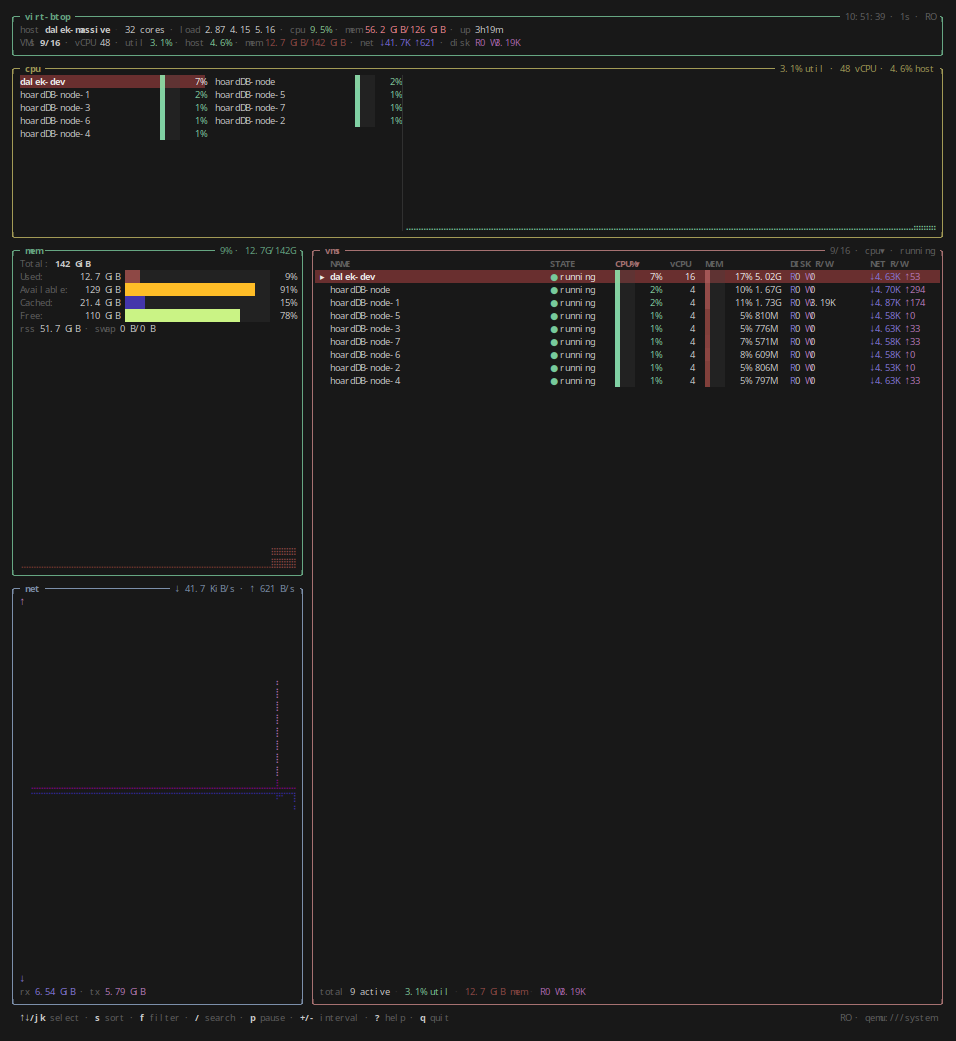
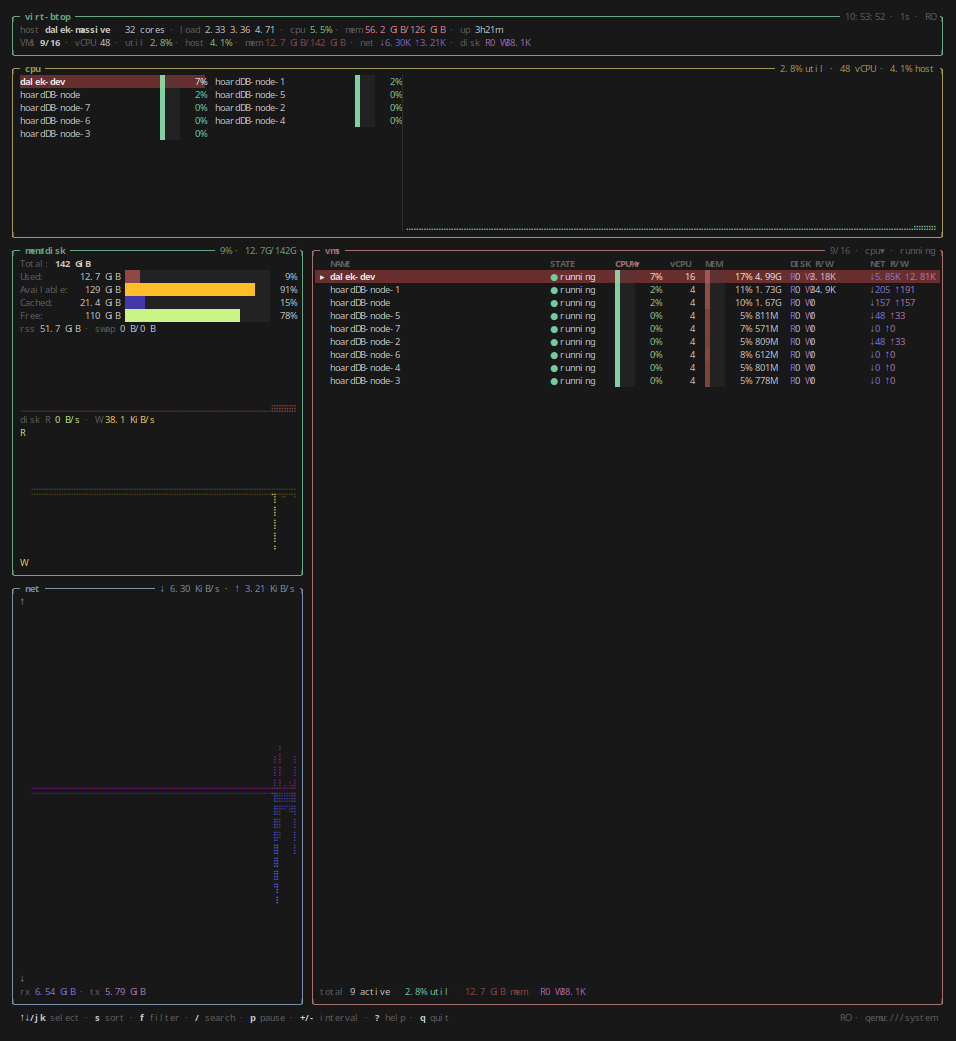
mem/disk box: add mirrored disk I/O graph

diff --git a/internal/tui/render.go b/internal/tui/render.go
@@ -296,7 +296,7 @@ func (m *Model) renderMem(s *Screen, l Layout) {
 	case c.ActiveVMs > 0:
 		sub = "no guest stats"
 	}
-	s.Box(0, l.MemY, l.LeftW, l.MemH, "mem", sub, m.pal.BorderMem, m.pal.BorderMem, m.pal.BorderMem)
+	s.Box(0, l.MemY, l.LeftW, l.MemH, "mem/disk", sub, m.pal.BorderMem, m.pal.BorderMem, m.pal.BorderMem)
 
 	x, y, w, h := 2, l.MemY+1, l.LeftW-4, l.MemH-2
 	if w <= 0 || h <= 0 {
@@ -347,12 +347,53 @@ func (m *Model) renderMem(s *Screen, l Layout) {
 		row++
 	}
 
-	graphH := h - row
-	if graphH > 0 {
+	rem := h - row
+	memGraphH := rem
+	diskH := 0
+	if rem >= 6 {
+		memGraphH = rem / 3
+		if memGraphH < 2 {
+			memGraphH = 2
+		}
+		diskH = rem - memGraphH
+	}
+	if memGraphH > 0 {
 		vals := metrics.Window(m.hist.Mem, w*2)
-		DrawBraille(s, x, y+row, w, graphH, vals, 100,
+		DrawBraille(s, x, y+row, w, memGraphH, vals, 100,
 			func(f float64) termenv.Color { return m.pal.Mem.At(f) })
 	}
+	if diskH >= 3 {
+		m.renderDisk(s, x, y+row+memGraphH, w, diskH)
+	}
+}
+
+// renderDisk draws the combined disk I/O: a label row, then one mirrored graph
+// with reads growing up and writes growing down from a shared midline.
+func (m *Model) renderDisk(s *Screen, x, y, w, h int) {
+	c := m.combined
+	putSpans(s, x, y, w, []span{
+		{"disk ", Style{FG: m.pal.GraphText}},
+		{"R ", Style{FG: m.pal.GraphText}},
+		{humanRate(c.DiskRDBps), Style{FG: m.pal.Free.At(0.7)}},
+		{" · W ", Style{FG: m.pal.GraphText}},
+		{humanRate(c.DiskWRBps), Style{FG: m.pal.Avail.At(0.7)}},
+	}, nil)
+	gy, gh := y+1, h-1
+	graphW := w - 2
+	if gh < 2 || graphW < 1 {
+		return
+	}
+	rdVals := metrics.Window(m.hist.DiskRD, graphW*2)
+	wrVals := metrics.Window(m.hist.DiskWR, graphW*2)
+	maxVal := niceMax(maxOf(rdVals, wrVals) * 1.05)
+	rdH := gh / 2
+	wrH := gh - rdH
+	s.Put(x, gy, 1, "R", Style{FG: m.pal.Free.At(0.6)})
+	DrawBraille(s, x+2, gy, graphW, rdH, rdVals, maxVal,
+		func(f float64) termenv.Color { return m.pal.Free.At(f) })
+	s.Put(x, gy+gh-1, 1, "W", Style{FG: m.pal.Avail.At(0.6)})
+	DrawBrailleDown(s, x+2, gy+rdH, graphW, wrH, wrVals, maxVal,
+		func(f float64) termenv.Color { return m.pal.Avail.At(f) })
 }
 
 // drawMemMeter draws "Label:  value  ████░░░░  nn%" on one row.

diff --git a/internal/metrics/history.go b/internal/metrics/history.go
@@ -8,11 +8,13 @@ const MaxHistory = 900
 // History holds the combined series for the main boxes and a CPU series per VM
 // for the detail overlay.
 type History struct {
-	CPU   []float64
-	Mem   []float64
-	NetRX []float64
-	NetTX []float64
-	VMs   map[string][]float64
+	CPU    []float64
+	Mem    []float64
+	NetRX  []float64
+	NetTX  []float64
+	DiskRD []float64
+	DiskWR []float64
+	VMs    map[string][]float64
 }
 
 func NewHistory() *History {
@@ -24,6 +26,8 @@ func (h *History) Push(c Combined, domains []*hypervisor.Domain, rates map[strin
 	h.Mem = push(h.Mem, c.MemPct)
 	h.NetRX = push(h.NetRX, c.NetRXBps)
 	h.NetTX = push(h.NetTX, c.NetTXBps)
+	h.DiskRD = push(h.DiskRD, c.DiskRDBps)
+	h.DiskWR = push(h.DiskWR, c.DiskWRBps)
 
 	live := make(map[string]struct{}, len(domains))
 	for _, d := range domains {

diff --git a/README.md b/README.md
@@ -6,7 +6,7 @@ parsing — and lays the data out like btop:
 
 - a full-width **CPU box** with the running VMs where btop lists cores, plus a
   combined braille graph of vCPU utilization;
-- a btop-style **memory box** (Total, Used, Available, Cached, Free meters) and a
+- a btop-style **mem/disk box** (Total, Used, Available, Cached, Free meters, plus a mirrored disk read/write graph) and a
   **network box** for the combined guest totals on the
   left;
 - a **VM list** where btop shows processes, with per-VM CPU, memory, disk I/O,
